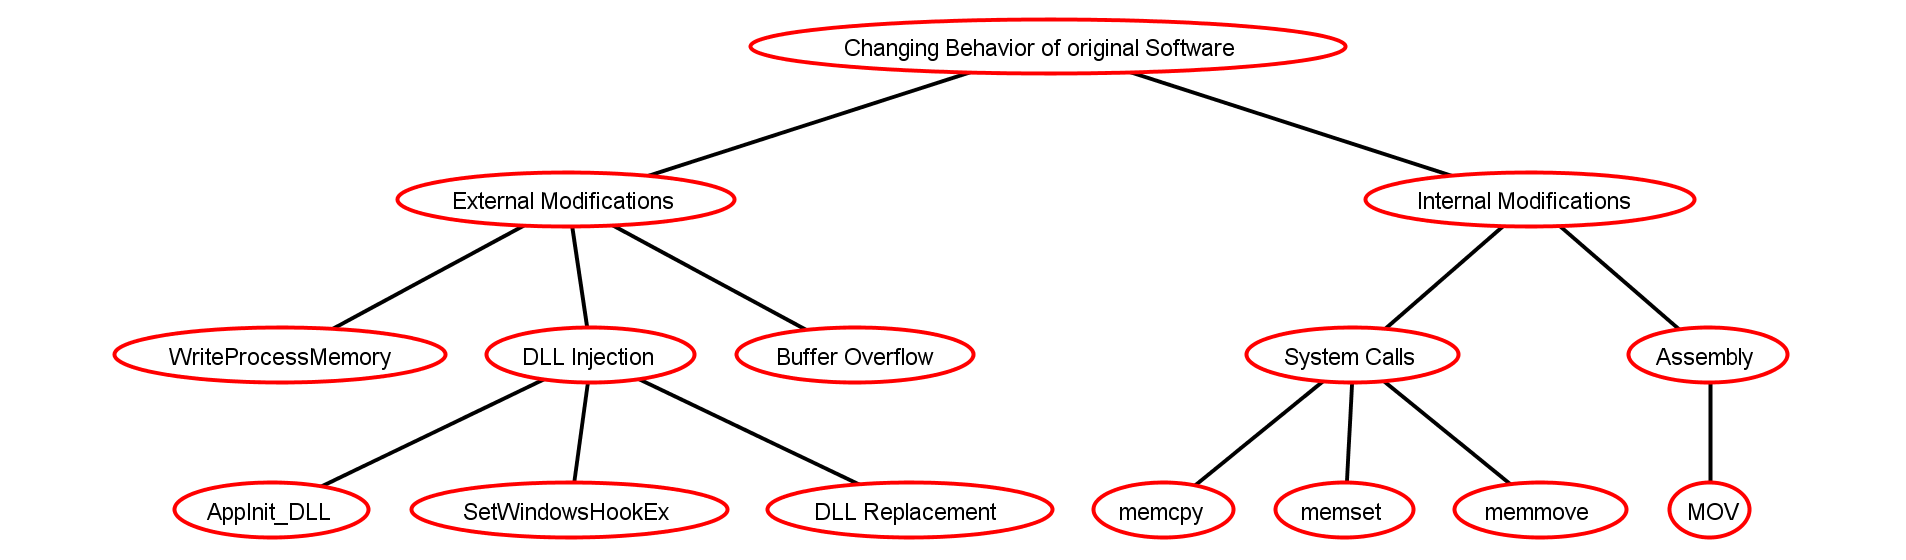
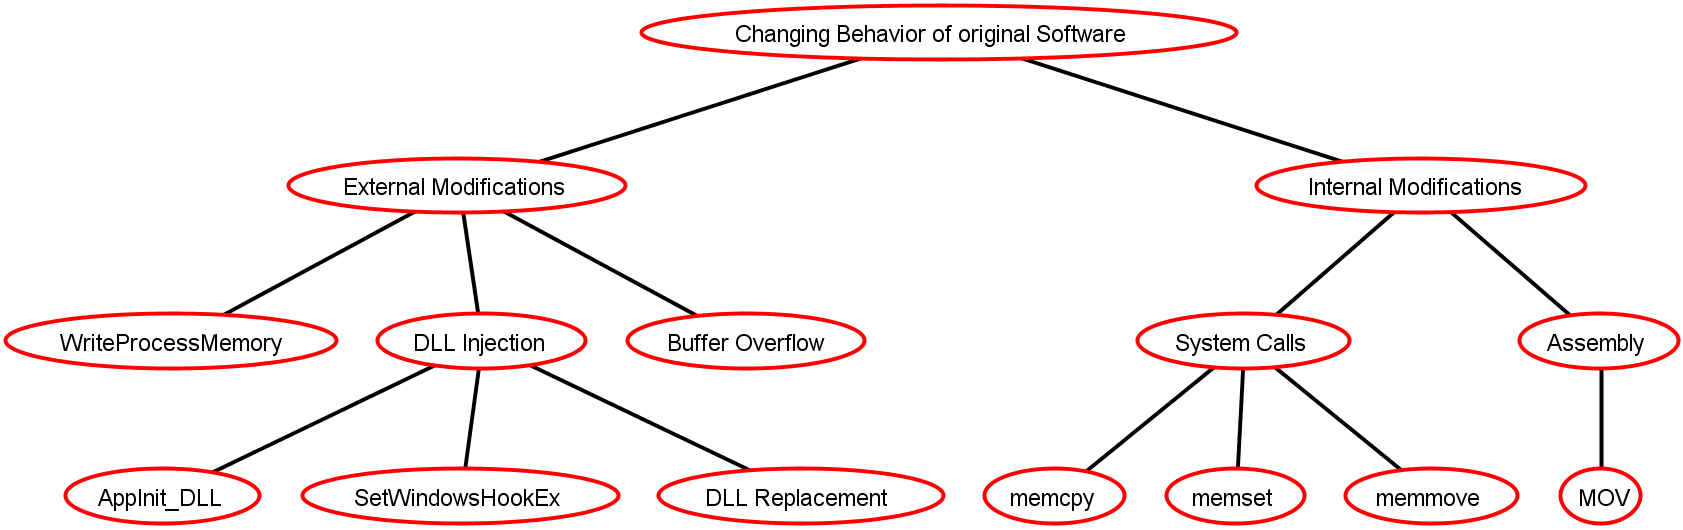
Changed images

Changed region(s): [[0.0, 0.0, 0.9887, 0.9962], [0.8342, 0.5132, 1.0, 0.7245], [0.7415, 0.4528, 0.8033, 0.5434]]

diff --git a/sections/implementation/implementation.tex b/sections/implementation/implementation.tex
@@ -1,5 +1,5 @@
 \section{Design and Implementation}
-\label{chap_implementation}
+\label{sec:implementation}
 The previous chapter showed that many different attacks still exists, that can't be prevented by the existing defenses. These attacks can be classified into two groups that have to be handled separately in order to increase security on the target platform. Attacks from outside the process virtual memory have to use \syscall{WriteProcessMemory}, which forms the first group and attacks from inside are relying on a DLL load during their initialization and execute their malicious code from inside, which form the second group. This classification makes it possible to design effective defenses that can't be circumvented. 
 
 \subsection{Blocking \syscall{WriteProcessMemory} with a DACL}
@@ -12,7 +12,7 @@ The newly created problem with the modified DACL can be solved by creating a dri
 However, a naive implementation that just checks for process' executable file name may result in an access gain for the attacker. The injecting process simply has to be named chrome.exe and can gain access to the original chrome.exe. However the implementation restricts outside access regardless of the given process name successfully. Children and parent processes ids (pids) are stored inside two separate tables that are on access checked if they contain target and source process ids. The driver is using a dynamic list structure, so that an unlimited number of processes can be tracked. Finally the check for access rights can be done by finding a given pid inside the defined lists and returning a hash value which uniquely identifies the process. A good hash for this tree is the parent pid, as the process hierarchy is tracked inside the list. Only if both find operations result in a match of the returned pids, access is granted and no restriction is applied. Entries of the list (parent or child process) will get removed as soon as they exit, so that the remaining list is kept clean from garbage and reassignments of the same pid don't lead to a security hole. 
 
 \subsection{Blocking DLL Injection by hooking \syscall{LoadLibrary}}
-For the second classification group, the DLL based injections, DACL can't be used, as it is unknown which DLLs are malicious and thus, for which DLL files a DACL should to prevent execution. Additionally, the user of a file always has full permissions to change the DACL entry, so that any permission restriction can be easily undone. Thus, the DACL turns out to be useless and doesn't prevent loading of DLLs in all cases. Therefore a more interesting approach is hooking the \syscall{LoadLibrary} call, by detouring the function call, as shown in figure \ref{fig_detours}. The application will then get called every time a DLL is loaded and can return early with a STATUS\_ACCCESS\_DENIED error code, if the to be loaded DLL is unwanted. However, this function might not be called in all DLL load cases, as the hook is placed after the process has started running. As a local hook is not enough to detect DLL loads before the hook is installed, a deeper system hook is needed. Unfortunately, this requires patching the system call table and is prevented on x64 bit systems due to PatchGuard since Windows 7. Therefore, a different approach needs to be taken to catch all cases.
+For the second classification group, the DLL based injections, DACL can't be used, as it is unknown which DLLs are malicious and thus, for which DLL files a DACL should to prevent execution. Additionally, the user of a file always has full permissions to change the DACL entry, so that any permission restriction can be easily undone. Thus, the DACL turns out to be useless and doesn't prevent loading of DLLs in all cases. Therefore a more interesting approach is hooking the \syscall{LoadLibrary} call, by detouring the function call, as shown in Figure \ref{fig:detours}. The application will then get called every time a DLL is loaded and can return early with a STATUS\_ACCCESS\_DENIED error code, if the to be loaded DLL is unwanted. However, this function might not be called in all DLL load cases, as the hook is placed after the process has started running. As a local hook is not enough to detect DLL loads before the hook is installed, a deeper system hook is needed. Unfortunately, this requires patching the system call table and is prevented on x64 bit systems due to PatchGuard since Windows 7. Therefore, a different approach needs to be taken to catch all cases.
 
 \subsection{Blocking DLL Injection with a kernel mode driver}
 As previously stated, the resulting implementation already uses a kernel mode driver to prevent \syscall{WriteProcessMemory} calls. It is therefore a suitable start point to prevent DLL injections without being required to hook into the kernel. The Windows API for drivers offers the existing \syscall{PsSetLoadImageNotfiyRoutine} function call, to register a callback function that is whenever a DLL is mapped into memory. During the function call, the process is in a suspended state and thus execution of the DLL hasn't begun. However, this entry point for DLL load prevention is not optimal, as this function call occurs after the DLL was already mapped into memory and a pre loading callback would be better to use in this situations. Unfortunately, this callback function does not exist so far, so the implementation has to rely on the post load callback. To make use of this function, the MSDN documentation has to be read carefully, as not following it will lead to a deadlock or even make the system crash in a blue screen of death. Most notably is the fact that the function call occurs on IRQ Level PASSIVE\_LEVEL and special kernel mode APCs are disabled. This is at first a major limitation naive implementations. Opening and reading file calls will not complete, as the underlying APC event is not sent, thus in a naive implementation, reading a file seems impossible at a first glance. The reason for the disabled special kernel mode APCs is a previous call to the \syscall{KeEnterGuardedRegion} function, so a call to \syscall{KeLeaveGuardedRegion} can enable APC events again. However, this shouldn't be done here, as the result turns out to be unpredictable and leading to random deadlocks or failing accesses on files. By digging further a solution can be obtained by using a second running thread, a so called work item, which execution is handled separately by the system. The advantage of that is the enabled special kernel mode APCs and the possibility to freely change the IRQL during execution. One major disadvantage of this way is that some sort of thread synchronization between the work item and the initial callback function has to be introduced and thus resulting into driver typical busy waiting, which is still faster than non busy waiting and eventually occurring context changes. A file handle can now be obtained and from the file data a sha256 hash is generated, which is used later to compare it to a known whitelist of dll files. Although gaining a file handle seems easy, it is in fact not! The Windows API offers several different ways of obtaining a valid file handle with functions like \syscall{ZwOpenFile} or \syscall{ObOpenObjectByPointer}. The second function \syscall{ObOpenObjectByPointer} will generate a handle from a given pointer to an object. Luckily, that's exactly what can be found inside the input parameters of the \syscall{PsSetLoadImageNotifyRoutine} callback. The image info can be extended to obtain a file object, and the \syscall{ObOpenObjectByPointer} function can then be used to obtain a handle from this file object. Though, this didn't work in all cases and lead to "random" results. If a file was opened a first time, \syscall{ObOpenObjectByPointer} would succeed and return a valid file handle. Subsequent calls to the same file lead to error STATUS\_UNSUCCESSFUL for no obvious reason. Kernel-debugging allowed to find the reason of failure, which was an internal call to \syscall{ObpIncrementHandleCount} that had returned STATUS\_UNSUCCESFUL. There can be found nothign with respect to this problem on the internet and might be a bug inside the windows kernel itself. Therefore, \syscall{ObOpenObjectByPointer} can't be used and only \syscall{ZwOpenFile} works as expected, but gives a new problem, the full file path. That's surprising, as typical callback routines always get the full filepath as input parameter, \syscall{PsSetLoadImageNotifyRoutine} does not! Some path constructions is therefore required, but will overall work and allow reading of all loaded DLL files. Finally, the resulting sha256 hash can be calculated and compared to the whitelist and if no match is found, actions can be taken prevent the DLL from executing. An initial thought could be to undo the internal \syscall{ZwMapViewOfSection} / \syscall{NtMapViewOfSection} function by calling it's counter pair \syscall{ZwUnmapViewOfSection} / \syscall{NtUnmapViewOfSection} and thus removing the DLL from memory. The idea is great, but will not succeed, as a special lock is hold, the LdrLoadLoaderLock, that can't be accessed at this point of code. Calling the functions regardless will deadlock the driver and soon after deadlock the whole system. Thus, the DLL will only get patched, rendering it, although still residing in memory, useless. To do that, three points in memory receive modifications: the entrypoint address, the DOS MZ header and the entrypoint function. The entrypoint address is set to NULL, the entrypoint function will get patched with a single ret (0xC3) instruction and the memory containg the DOS MZ header will get zeroed. All three steps guarantee, that nothing will be able to execute from this memory mapped DLL file and thus preventing the typical DLL injections from \syscall{SetWindowsHookEx}, the registry or other techniques.

diff --git a/sections/background/attacks/direct_memory_modification.tex b/sections/background/attacks/direct_memory_modification.tex
@@ -3,7 +3,7 @@ The last possible user-mode injection directly modifies the existing virtual mem
 \paragraph{\syscall{CreateRemoteThread} DLL Injection}
 DLLs can be injected into a process by loading it's path into the target memory and requesting a new thread to call \syscall{LoadLibrary}. This kind of attack can be used on any process running under the same integrity level and therefor is very widely used in game cheating. At first, a handle to the targets Process is requested via \syscall{OpenProcess} with PROCESS\_VM\_WRITE and PROCESS\_VM\_OPERATION access rights. Then enough memory inside the target is allocated with \syscall{VirtualAllocEx} to contain the full path of the DLL. Next \syscall{WriteProcessMemory} is used to transfer the DLL path into the target and finally the injection can be completed by calling \syscall{CreateRemoteThread}, which creates a new thread inside the target. \syscall{CreateRemoteThread} thereby requires a function that will get executed, in this case \syscall{LoadLibrary} should be called, and function arguments, which is the previous allocated memory that now contains the DLLs path. The \syscall{LoadLibrary} call will load the DLL into the target and arbitrary code can now get executed by the DLL, either via using \syscall{CreateRemoteThread} again or via the DLLs entry point.
 \paragraph{Function detouring}
-Function detouring has been greatly simplified by the Detours\cite{msdetours} library of Microsoft, but can also be achieved by direct modification with \syscall{WriteProcessMemory} or assembly code. At first, a function to be hooked needs to be chosen and the memory location has to be determined. Now several instructions are replaced by NOP instructions to create enough space to insert an unconditional jump instruction with an address into it. A jump instruction is written into the created space which links to a different functions start address. The original function is now extended by the new function and always called via the just placed jmp instruction. If the behavior of the program should stay unchanged an additional trampoline function has to be introduced, holding the previously nopped out instructions. In figure \ref{fig_detours} a graphical representation of detouring can be seen. Function detouring, or sometimes called API Hooking can now be used to do any kind of activity like altering the functions return value and thus allowing the attacker to read and modify very sensitive information.
+Function detouring has been greatly simplified by the Detours\cite{msdetours} library of Microsoft, but can also be achieved by direct modification with \syscall{WriteProcessMemory} or assembly code. At first, a function to be hooked needs to be chosen and the memory location has to be determined. Now several instructions are replaced by NOP instructions to create enough space to insert an unconditional jump instruction with an address into it. A jump instruction is written into the created space which links to a different functions start address. The original function is now extended by the new function and always called via the just placed jmp instruction. If the behavior of the program should stay unchanged an additional trampoline function has to be introduced, holding the previously nopped out instructions. In figure \ref{fig:detours} a graphical representation of detouring can be seen. Function detouring, or sometimes called API Hooking can now be used to do any kind of activity like altering the functions return value and thus allowing the attacker to read and modify very sensitive information.
 \input{sections/background/attacks/fig_detours}
 \paragraph{Buffer overflows}
 Buffer overflows are among the most severe security problems of modern applications and are introduced by simple programming errors that weren't previously found in quality assurance steps. Even though they are hard to find, once used they allow the attacker to hopefully execute arbitrary code or in a less worse case just revealing too many information about the memory contents. One of the most severe examples of the past was the so called "Heathbleed bug" which affected millions of servers worldwide, as it was present in the much used OpenSSL library. Even though the attacker couldn't execute code directly, he was able to get sensitive information about the SSL certificates private key and thus break any security put in place by the SSL protocol.

diff --git a/sections/background/defenses/aslr.tex b/sections/background/defenses/aslr.tex
@@ -1,6 +1,6 @@
 \subsubsection{Adress Space Layout Randomization}
 The first of the built in windows defense mechanism is called Address Space Layout Randomization. It's main purpose is to make memory allocations at a random address in the virtual address space. Figure \ref{fig:aslr} shows three independent starts of the operating system and the locations of the loaded DLL files which is randomized. An attacker that tries injecting code into the application will no longer know which address has to be used. Searching inside the virtual address space is thus not feasible, as it is very large with four gigabyte on a 32 bit and eight terabyte on a 64 bit windows system of virtual addresses. Therefore the attacker might start duplicating his code several times to fill hundreds of addresses and by chance getting his code executed. As the main purpose of ASLR is to prevent buffer overflows, it is fulfilling its job by crashing the application due to an illegal memory access. However, for all the given attacks, ASLR is useless! All methods involving \syscall{WriteProcessMemory} or DLL-Injection can use the Windows API function \syscall{GetProcAddress} to receive the address of an exported function. As the ecosystem is very DLL dependent and procedures are exported from within DLLs, the attacker is granted an easy way to circumvent ASLR.
-\begin{figure}
+\begin{figure}[h]
 \centering
 \includegraphics[width=\textwidth,height=\textheight,keepaspectratio]{sections/background/defenses/aslr.jpg}
 \caption{ASLR resulting in different DLL memory locations after each boot}

diff --git a/thesis.tex b/thesis.tex
@@ -60,6 +60,7 @@
 \thispagestyle{empty}
 \null
 
+\include{sections/_meta/acknowledgment}
 \include{sections/_meta/abstract}
 
 \newpage
@@ -71,11 +72,11 @@
 \setcounter{page}{1}
 
 % PUT Content here!
-\include{sections/introduction/introduction}
-\include{sections/background/background}
-\include{sections/implementation/implementation}
-\include{sections/evaluation/evaluation}
-\include{sections/futurework/futurework}
+\input{sections/introduction/introduction}
+\input{sections/background/background}
+\input{sections/implementation/implementation}
+\input{sections/evaluation/evaluation}
+\input{sections/futurework/futurework}
 
 %\{sections/chrome_elf/chrome_elf}
  

diff --git a/sections/introduction/outline.tex b/sections/introduction/outline.tex
@@ -1,2 +1,2 @@
 \subsection{Outline}
-In chapter \ref{chap_background} current attacks and defenses for PMT are explored. Afterwards in chapter \ref{chap_implementation} new defenses are designed and evaluated for their performance and security in chapter \ref{chap_evaluation}. Finally in chapter \ref{chap_futurework} future work is presented.
+In chapter \ref{sec:background} current attacks and defenses for PMT are explored. Afterwards in chapter \ref{sec:implementation} new defenses are designed and evaluated for their performance and security in chapter \ref{sec:evaluation}. Finally in chapter \ref{sec:futurework} future work is presented.

diff --git a/sections/background/attacks.tex b/sections/background/attacks.tex
@@ -1,4 +1,10 @@
 \subsection{Attacks}
+
+\begin{figure}[h]
+\centering
+\includegraphics[scale=0.35]{sections/adtrees/ExternalModificationsWithoutDefenses.png}
+\caption{This attack tree shows all possible external modifications to the original software.}
+\end{figure}
 \input{sections/background/attacks/appinit_dlls.tex}
 \input{sections/background/attacks/setwindowshookex.tex}
 \input{sections/background/attacks/direct_memory_modification.tex}

diff --git a/sections/background/attacks/fig_attacks.tex b/sections/background/attacks/fig_attacks.tex
@@ -1,6 +1,6 @@
-\begin{figure}[t]
+\begin{figure}[!h]
 	\centering
-	\includegraphics[angle=90,width=\textwidth,height=\textheight,keepaspectratio]{sections/adtrees/ProcessVirtualMemoryWithoutDefenses.png}
+	\includegraphics[angle=90,scale=0.4,keepaspectratio]{sections/adtrees/ProcessVirtualMemoryWithoutDefenses.png}
 	\caption{An attack tree combining all of the shown attacks.}
 	\label{fig_attacks}
 \end{figure}

diff --git a/sections/background/attacks/fig_detours.tex b/sections/background/attacks/fig_detours.tex
@@ -1,7 +1,7 @@
-\begin{figure}[ht]
+\begin{figure}[h]
 	\centering
 	\includegraphics[scale=0.7]{sections/background/attacks/fig_detours.png}
-	\caption{\url{http://resources.infosecinstitute.com/api-hooking-detours/}}
-	\label{fig_detours}
+	\caption{This figure shows the change in control flow of a detoured function.\cite{detours}}
+	\label{fig:detours}
 \end{figure}
 

diff --git a/sections/introduction/introduction.tex b/sections/introduction/introduction.tex
@@ -3,7 +3,6 @@
 \input{sections/introduction/memoryProcessTampering}
 \input{sections/introduction/browserHijacking}
 \input{sections/introduction/games}
-\input{sections/introduction/damage}
 \input{sections/introduction/goal}
 \input{sections/introduction/contributions}
 \input{sections/introduction/outline}

diff --git a/sections/evaluation/evaluation.tex b/sections/evaluation/evaluation.tex
@@ -1,5 +1,5 @@
 \section{Results and Evaluation}
-\label{chap_evaluation}
+\label{sec:evaluation}
 The following chapter will evaluate the performance and security of the implemented driver.
 \input{sections/evaluation/performance}
 \input{sections/evaluation/security}

diff --git a/sections/background/background.tex b/sections/background/background.tex
@@ -1,4 +1,5 @@
 \section{Background}
-\label{chap_background}
+\label{sec:background}
+\input{sections/background/windows}
 \input{sections/background/attacks}
 \input{sections/background/defenses}

diff --git a/sections/futurework/futurework.tex b/sections/futurework/futurework.tex
@@ -1,2 +1,2 @@
-\section{Future work}
-\label{chap_futurework}
+\section{Conclusion and Future work}
+\label{sec:futurework}
